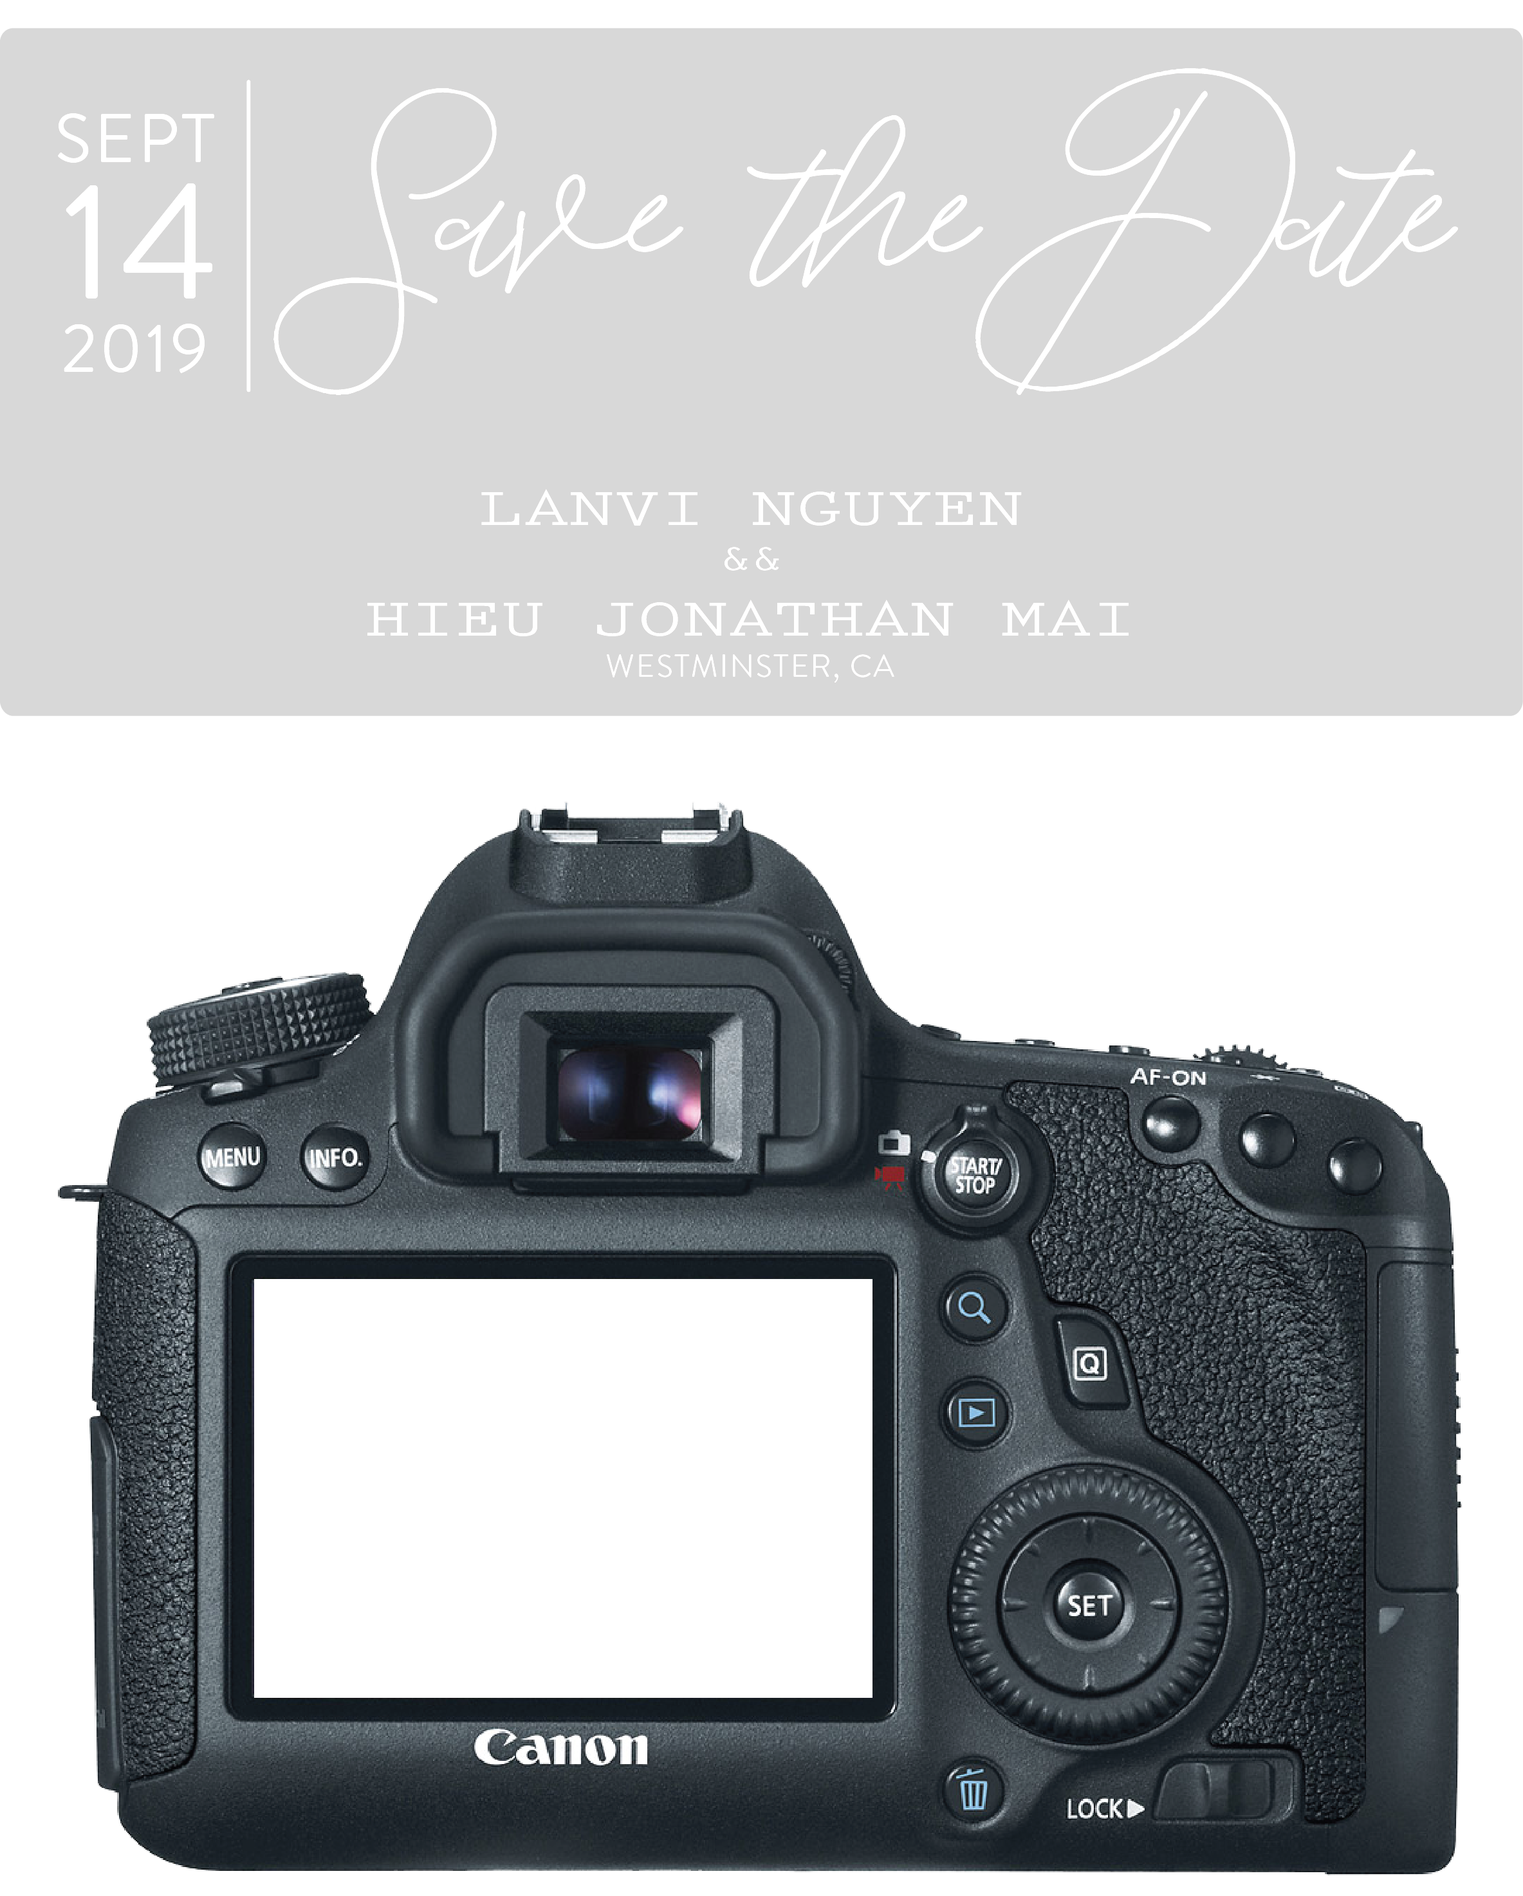
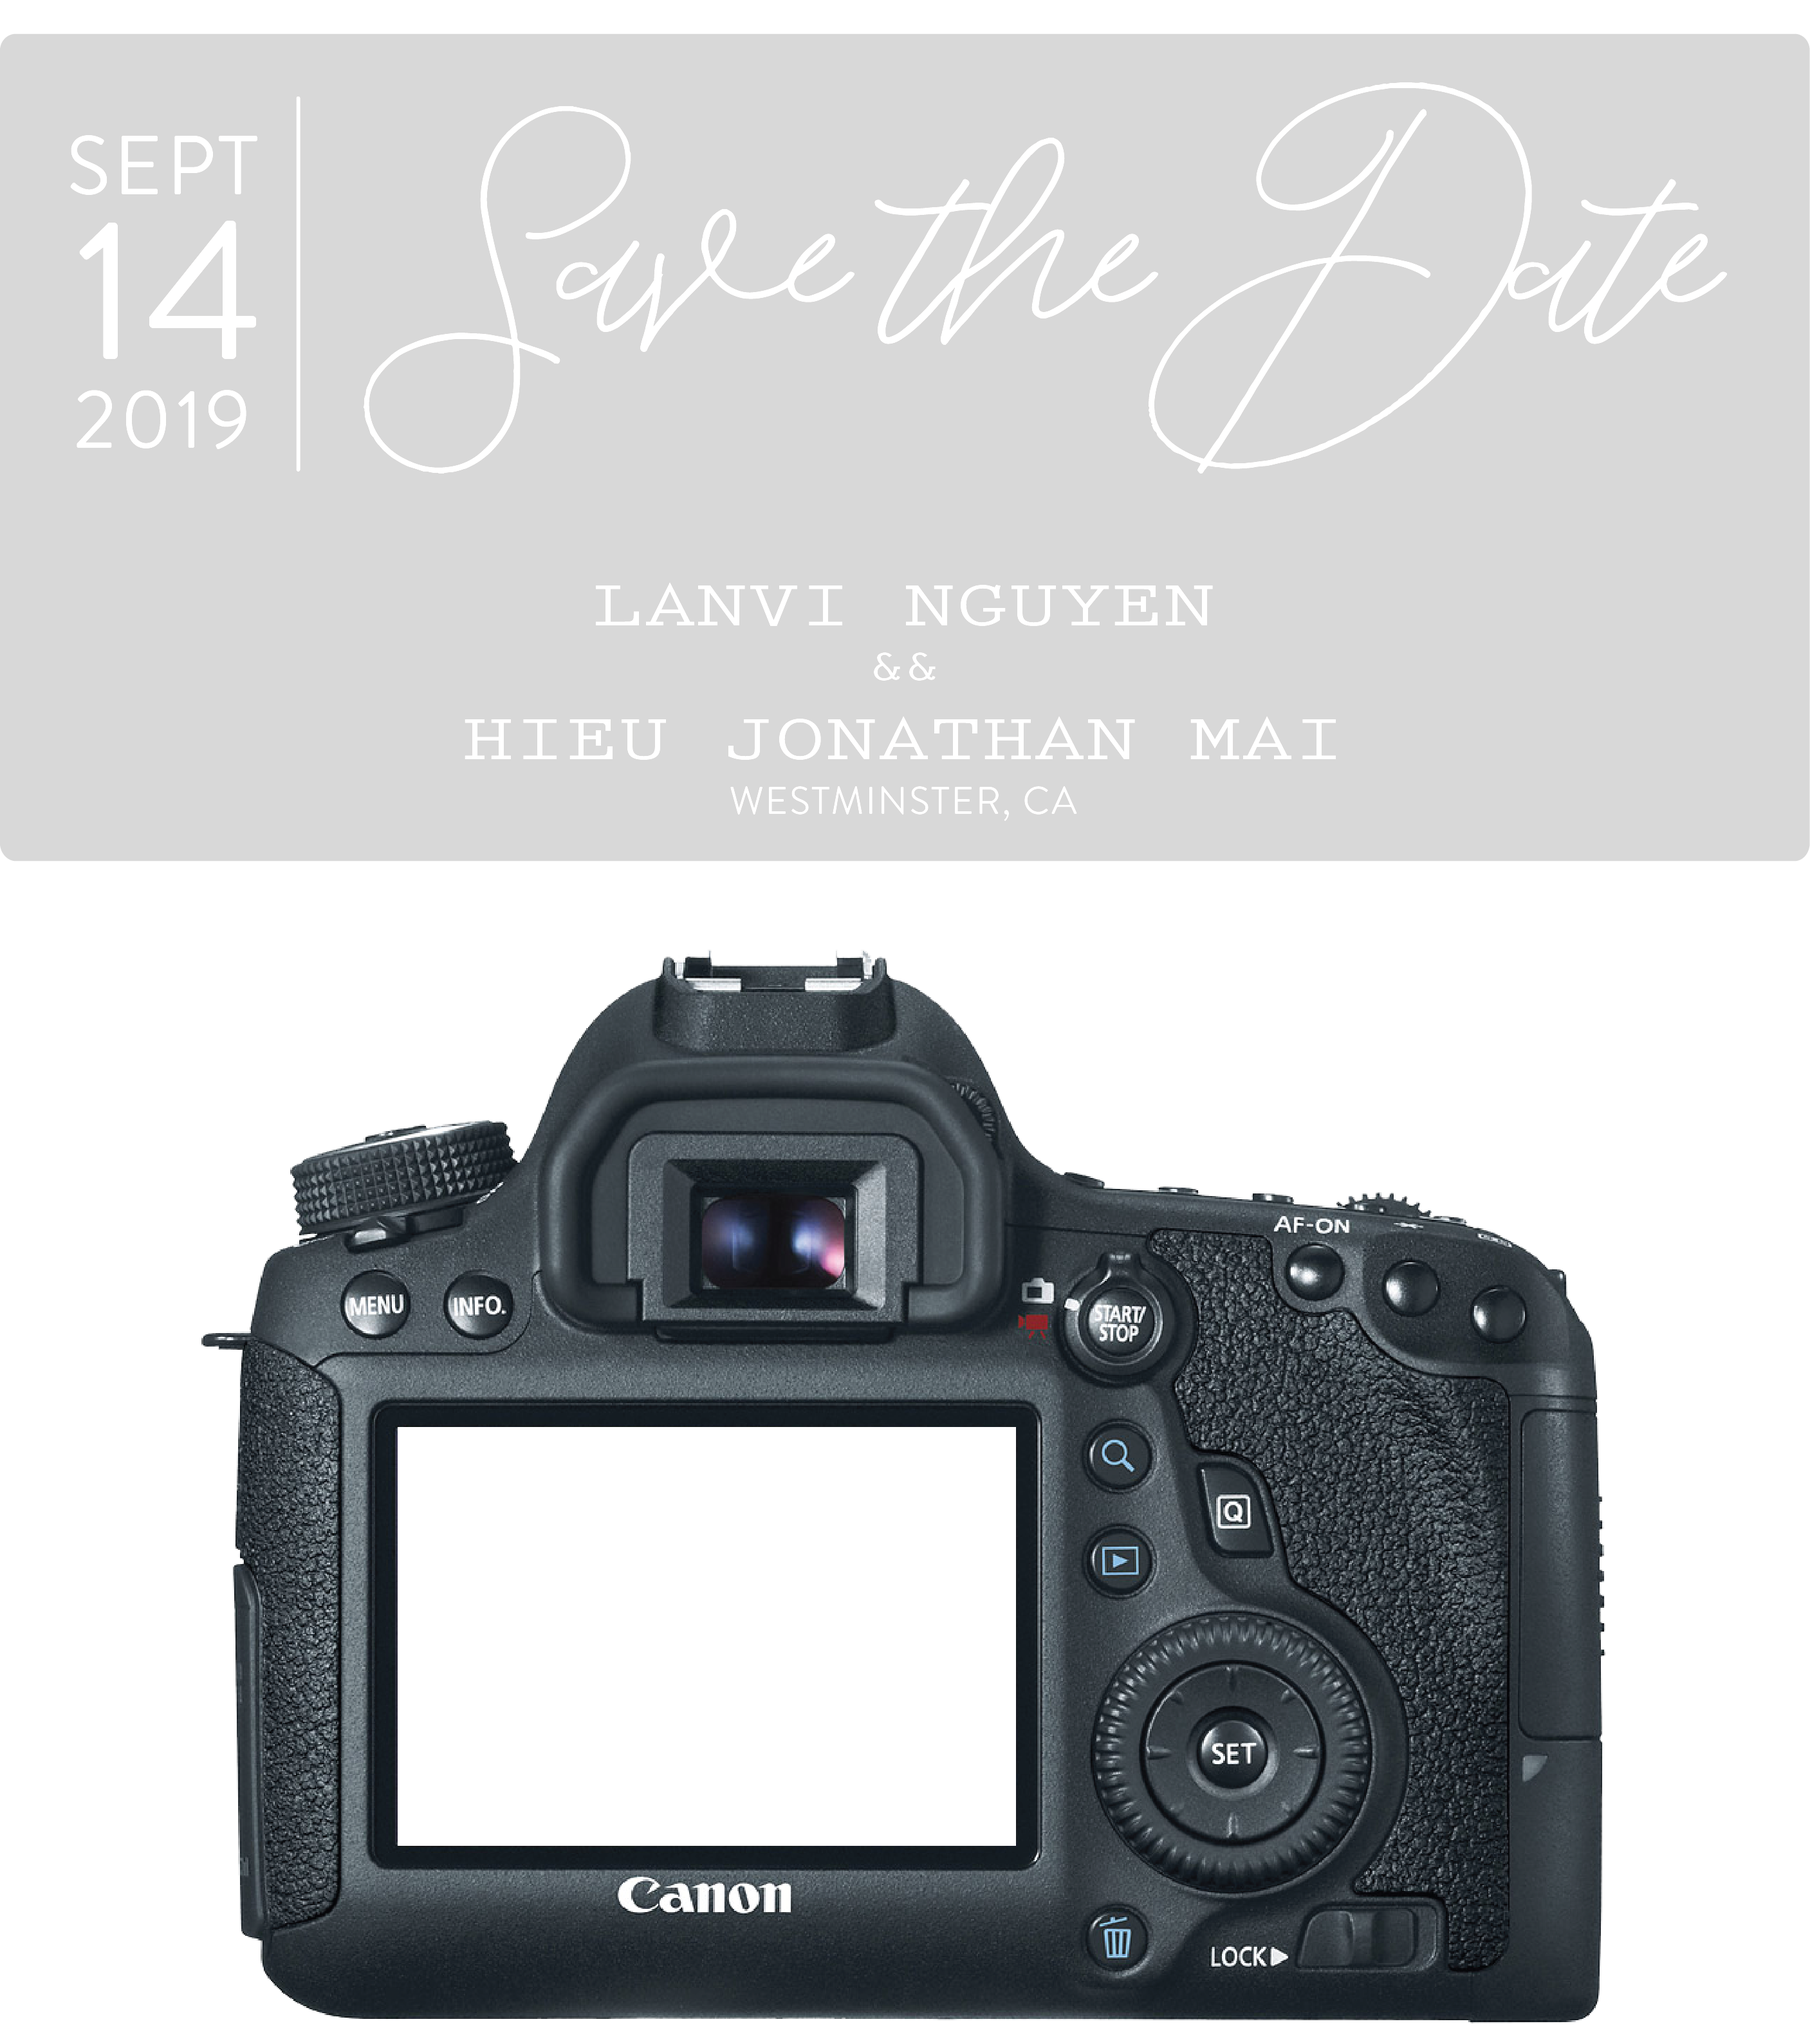
image size changes and started contact form

diff --git a/index.html b/index.html
@@ -8,61 +8,87 @@
     <title>Lanvi and Jon</title>
     <link rel="stylesheet" href="https://stackpath.bootstrapcdn.com/bootstrap/4.2.1/css/bootstrap.min.css" integrity="sha384-GJzZqFGwb1QTTN6wy59ffF1BuGJpLSa9DkKMp0DgiMDm4iYMj70gZWKYbI706tWS"
         crossorigin="anonymous">
-    <link rel="stylesheet" href="https://use.fontawesome.com/releases/v5.6.3/css/all.css" integrity="sha384-UHRtZLI+pbxtHCWp1t77Bi1L4ZtiqrqD80Kn4Z8NTSRyMA2Fd33n5dQ8lWUE00s/" crossorigin="anonymous">
+    <link rel="stylesheet" href="https://use.fontawesome.com/releases/v5.6.3/css/all.css" integrity="sha384-UHRtZLI+pbxtHCWp1t77Bi1L4ZtiqrqD80Kn4Z8NTSRyMA2Fd33n5dQ8lWUE00s/"
+        crossorigin="anonymous">
     <link rel="stylesheet" href="./assets/css/style.css">
 </head>
 
 <body>
     <div id="hero-banner2" class="hero-image hero1"></div>
-        <div class="dslr">
-            <img class="camera" src="assets/images/save_the_date.png" />
-            <!-- Carousel -->
-            <div id="my-carousel" class="picture carousel slide carousel-fade" data-interval="5000" data-ride="carousel">
-                <div class="carousel-inner">
-                    <div class="carousel-item active"><img class="d-block w-100" src="./assets/images/pics/camera1.jpg"></div>
-                    <div class="carousel-item"><img src="./assets/images/pics/camera2.jpg" class="d-block w-100"></div>
-                    <div class="carousel-item"><img src="./assets/images/pics/camera3.jpg" class="d-block w-100"></div>
-                    <div class="carousel-item"><img src="./assets/images/pics/camera4.jpg" class="d-block w-100"></div>
-                    <div class="carousel-item"><img src="./assets/images/pics/camera5.jpg" class="d-block w-100"></div>
-                    <div class="carousel-item"><img src="./assets/images/pics/camera6.jpg" class="d-block w-100"></div>
-                    <div class="carousel-item"><img src="./assets/images/pics/camera7.jpg" class="d-block w-100"></div>
-                    <div class="carousel-item"><img src="./assets/images/pics/camera8.jpg" class="d-block w-100"></div>
-                    <div class="carousel-item"><img src="./assets/images/pics/camera9.jpg" class="d-block w-100"></div>
-                    <div class="carousel-item"><img src="./assets/images/pics/camera10.jpg" class="d-block w-100"></div>
-                    <div class="carousel-item"><img src="./assets/images/pics/camera11.jpg" class="d-block w-100"></div>
-                    <div class="carousel-item"><img src="./assets/images/pics/camera12.jpg" class="d-block w-100"></div>
-                    <div class="carousel-item"><img src="./assets/images/pics/camera13.jpg" class="d-block w-100"></div>
-                    <div class="carousel-item"><img src="./assets/images/pics/camera14.jpg" class="d-block w-100"></div>
-                    <div class="carousel-item"><img src="./assets/images/pics/camera15.jpg" class="d-block w-100"></div>
+    <div class="dslr">
+        <img class="camera" src="assets/images/save_the_date.png" />
+        <!-- Carousel -->
+        <div id="my-carousel" class="picture carousel slide carousel-fade" data-interval="5000" data-ride="carousel">
+            <div class="carousel-inner">
+                <div class="carousel-item active"><img class="d-block w-100" src="./assets/images/pics/camera1.jpg"></div>
+                <div class="carousel-item"><img src="./assets/images/pics/camera2.jpg" class="d-block w-100"></div>
+                <div class="carousel-item"><img src="./assets/images/pics/camera3.jpg" class="d-block w-100"></div>
+                <div class="carousel-item"><img src="./assets/images/pics/camera4.jpg" class="d-block w-100"></div>
+                <div class="carousel-item"><img src="./assets/images/pics/camera5.jpg" class="d-block w-100"></div>
+                <div class="carousel-item"><img src="./assets/images/pics/camera6.jpg" class="d-block w-100"></div>
+                <div class="carousel-item"><img src="./assets/images/pics/camera7.jpg" class="d-block w-100"></div>
+                <div class="carousel-item"><img src="./assets/images/pics/camera8.jpg" class="d-block w-100"></div>
+                <div class="carousel-item"><img src="./assets/images/pics/camera9.jpg" class="d-block w-100"></div>
+                <div class="carousel-item"><img src="./assets/images/pics/camera10.jpg" class="d-block w-100"></div>
+                <div class="carousel-item"><img src="./assets/images/pics/camera11.jpg" class="d-block w-100"></div>
+                <div class="carousel-item"><img src="./assets/images/pics/camera12.jpg" class="d-block w-100"></div>
+                <div class="carousel-item"><img src="./assets/images/pics/camera13.jpg" class="d-block w-100"></div>
+                <div class="carousel-item"><img src="./assets/images/pics/camera14.jpg" class="d-block w-100"></div>
+                <div class="carousel-item"><img src="./assets/images/pics/camera15.jpg" class="d-block w-100"></div>
+            </div>
+        </div>
+
+        <!-- Previous and Next Buttons -->
+        <a class="carousel-control-prev" href="#my-carousel" role="button" data-slide="prev">
+            <span class="carousel-control-prev-icon" aria-hidden="true"></span>
+            <span class="sr-only">Previous</span>
+        </a>
+        <a class="carousel-control-next" href="#my-carousel" role="button" data-slide="next">
+            <span class="carousel-control-next-icon" aria-hidden="true"></span>
+            <span class="sr-only">Next</span>
+        </a>
+
+        <!-- Button trigger modal -->
+        <a class="expand" role="button"><i class="fas fa-search-plus" data-toggle="modal" data-target="#exampleModal"></i></a>
+    </div>
+    <div id="myModal" class="modal">
+        <!-- The Close Button -->
+        <span class="close">&times;</span>
+
+        <!-- Modal Content (The Image) -->
+        <img class="modal-content" id="img01">
+    </div>
+
+    <!-- RSVP Form -->
+    <div class="white-bg">
+        <div class="container">
+            <div class="row">
+                <div class="col-md-12">
+                    <form  id="form-submission">
+                        <div class="form-row">
+                            <div class="form-group col-md-6">
+                                <label for="firstName">Full Name</label>
+                                <input type="text" name="name" class="form-control" id="name" placeholder="John Smith" required>
+                            </div>
+                            <div class="form-group col-md-6">
+                                <label for="emailAddress">Email Address</label>
+                                <input type="text" name="email address" class="form-control" id="emailAddress" placeholder="johnsmith@gmail.com" required>
+                            </div>
+                        </div>
+                        <div class="form-group">
+                            <label for="inputAddress">Home Address</label><br/>
+                            <small class="text-muted">Please enter in your full address</small>
+                            <input type="text" name="home address" class="form-control" id="inputAddress" placeholder="1234 Main St, Huntington Beach, CA 90742" required>
+                        </div>
+                        <button type="submit" class="submitbtn btn btn-primary">Submit</button>
+                    </form>
                 </div>
             </div>
-
-            <!-- Previous and Next Buttons -->
-            <a class="carousel-control-prev" href="#my-carousel" role="button" data-slide="prev">
-                <span class="carousel-control-prev-icon" aria-hidden="true"></span>
-                <span class="sr-only">Previous</span>
-            </a>
-            <a class="carousel-control-next" href="#my-carousel" role="button" data-slide="next">
-                <span class="carousel-control-next-icon" aria-hidden="true"></span>
-                <span class="sr-only">Next</span>
-            </a>
-
-            <!-- Button trigger modal -->
-            <a class="expand" role="button"><i class="fas fa-search-plus" data-toggle="modal" data-target="#exampleModal"></i></a>
         </div>
-        <div id="myModal" class="modal">
-            <!-- The Close Button -->
-            <span class="close">&times;</span>
-            
-            <!-- Modal Content (The Image) -->
-            <img class="modal-content" id="img01">
-        </div>
-    
+    </div>
     <!-- Javascript tags -->
-    <script
-  src="https://code.jquery.com/jquery-3.3.1.min.js"
-  integrity="sha256-FgpCb/KJQlLNfOu91ta32o/NMZxltwRo8QtmkMRdAu8="
-  crossorigin="anonymous"></script>
+    <script src="https://code.jquery.com/jquery-3.3.1.min.js" integrity="sha256-FgpCb/KJQlLNfOu91ta32o/NMZxltwRo8QtmkMRdAu8="
+        crossorigin="anonymous"></script>
     <script src="https://cdnjs.cloudflare.com/ajax/libs/popper.js/1.14.6/umd/popper.min.js" integrity="sha384-wHAiFfRlMFy6i5SRaxvfOCifBUQy1xHdJ/yoi7FRNXMRBu5WHdZYu1hA6ZOblgut"
         crossorigin="anonymous"></script>
     <script src="https://stackpath.bootstrapcdn.com/bootstrap/4.2.1/js/bootstrap.min.js" integrity="sha384-B0UglyR+jN6CkvvICOB2joaf5I4l3gm9GU6Hc1og6Ls7i6U/mkkaduKaBhlAXv9k"

diff --git a/assets/css/style.css b/assets/css/style.css
@@ -1,6 +1,6 @@
 body, html {
-    height: 100%;
     background-color: black;
+    height: 100%;
 }
 .hero-image {
     height: 100vh;
@@ -26,14 +26,14 @@ body, html {
 }
 .carousel-control-prev {
     height: 0px;
-    top: 84.6%;
-    right: 27.5%;
+    top: 85.6%;
+    right: 29.5%;
     left: initial;
 }
 .carousel-control-next {
     height: 0px;
-    top: 84.6%;
-    right: 14.5%;
+    top: 85.6%;
+    right: 19.5%;
     left: initial;
 }
 .dslr img {
@@ -43,23 +43,24 @@ body, html {
     width: 97% !important;
 }
 .expand {
-    font-size: 25px;
+    font-size: 20px;
     position: absolute;
-    bottom: 29%;
-    right: 34%;
+    bottom: 26.5%;
+    right: 36.5%;
 }
 .dslr .picture {
     position: absolute;
     z-index: -1;
-    width: 45%;
-    bottom: 10%;
-    left: 14%;
+    width: 37%;
+    bottom: 9%;
+    left: 21%;
 }
 .modal {
     display: none; /* Hidden by default */
     position: fixed; /* Stay in place */
     z-index: 1; /* Sit on top */
-    padding-top: 40px; /* Location of the box */
+    padding-top: 20px; /* Location of the box */
+    padding-bottom: 20px;
     left: 0;
     top: 0;
     width: 100%; /* Full width */
@@ -68,13 +69,14 @@ body, html {
     background-color: rgb(0,0,0); /* Fallback color */
     background-color: rgba(0,0,0,0.9); /* Black w/ opacity */
   }
+
   
   /* Modal Content (Image) */
   .modal-content {
-    margin: auto;
+    margin: 0 auto;
     display: block;
-    width: 80%;
-    max-width: 70%;
+    height: 100%;
+    width: auto;
   }
   /* Add Animation - Zoom in the Modal */
 .modal-content, #caption { 
@@ -104,6 +106,11 @@ body, html {
     text-decoration: none;
     cursor: pointer;
   }
+.white-bg {
+    background: white;
+}
+.container {
+}
   
 /* 100% Image Width on Smaller Screens */
 @media only screen and (max-width: 1024px) {

diff --git a/assets/javascript/app.js b/assets/javascript/app.js
@@ -8,7 +8,7 @@ let modal = document.getElementById("myModal");
 let modalImg = document.getElementById('img01');
 $('.expand').on('click', function() {
     modal.style.display = "block";
-    modalImg.src = `./assets/images/pics/camera${currentPicture}.jpg`;
+    modalImg.src = `./assets/images/pics/full/camera${currentPicture}.jpg`;
 });
 
 const span = document.getElementsByClassName('close')[0];
@@ -18,3 +18,23 @@ span.onclick = function() {
 modal.onclick = function() {
     modal.style.display = "none";
 }
+
+
+var $form = $('#form-submission'),
+        url = 'https://script.google.com/macros/s/AKfycbxJ0aFoZv0MhXNAncPRyUFcVfR0Y41lUJqtGeZ3QXdvBcnUZZA/exec';
+$("#form-submission").submit(function(e) {
+    e.preventDefault();
+    var jqxhr = $.ajax({
+        url: url,
+        method: "GET",
+        dataType: "json",
+        data: $form.serializeObject()
+    }).success(
+        // do something
+    )
+    // console.log('hi');
+    // var $form = $('#form-submission');
+    // console.log($form.serializeObject());
+})
+
+// https://script.google.com/macros/s/AKfycbxJ0aFoZv0MhXNAncPRyUFcVfR0Y41lUJqtGeZ3QXdvBcnUZZA/exec
